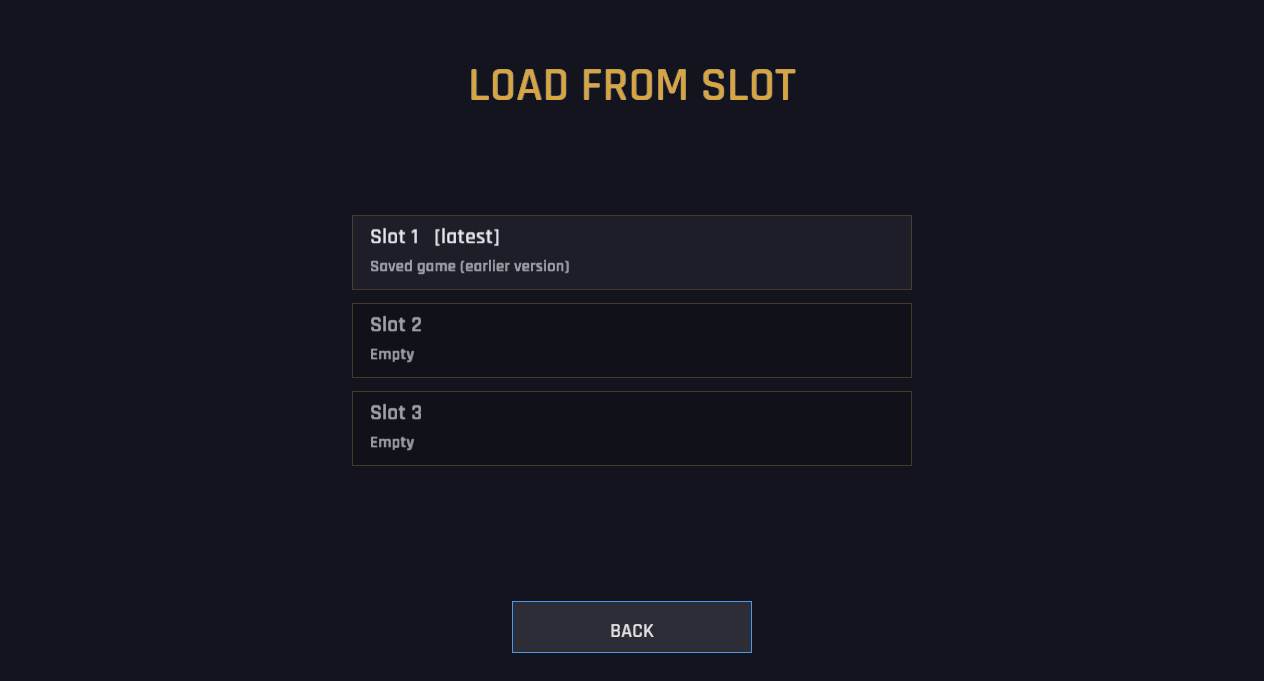
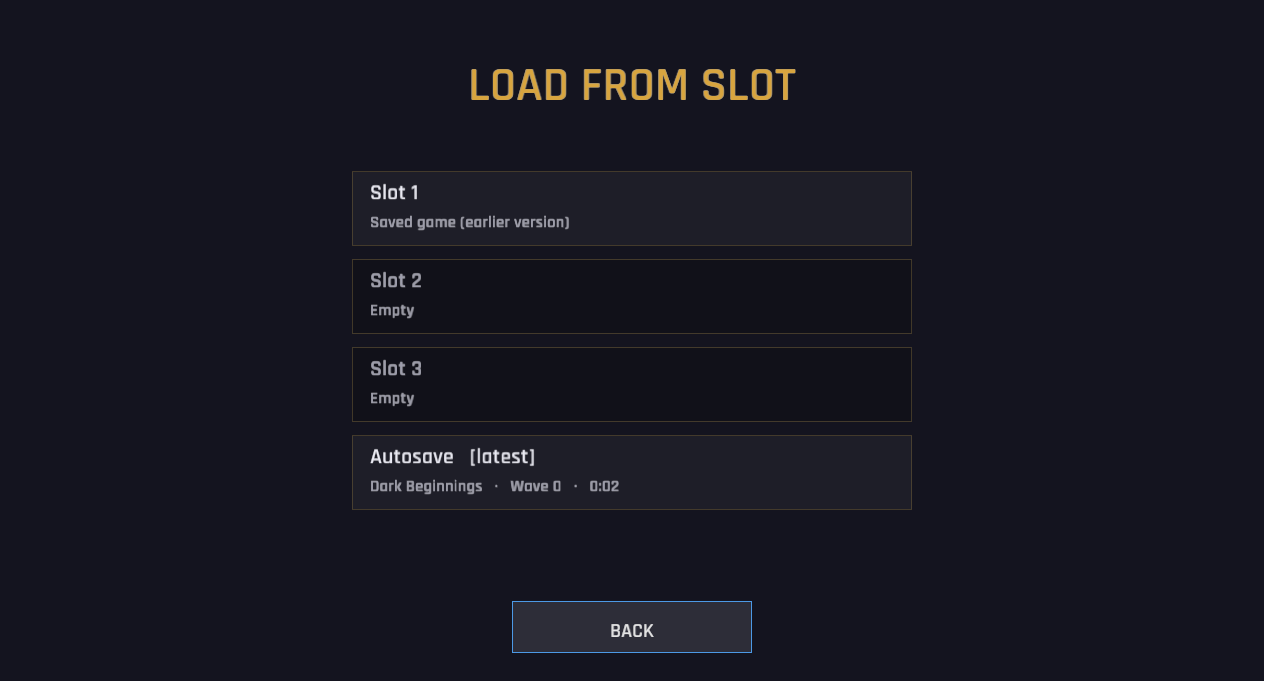
The game saves itself, into a slot the player cannot be given
Autosave runs off the toolkit's AutoSaveManager rather than a hand-rolled
timer -- the third thing persistence:: already carried that this project
had not adopted, after the slot API and its migration hooks.

The slot became an enum to make this safe. An autosave is a kind of slot,
not a fourth numbered one: writing it into the player's chosen slot would
make it worse than no autosave at all. SaveSlot::all() is what a player
picks into and excludes it; all_loadable() includes it and is what the
load list and "is there anything to load" ask. Getting those two backwards
would either hide autosaves or let a manual save land in the slot the
timer is about to take, so both directions have a test.

The manager lives on Game rather than GameState, which is forced twice
over: the timer has no business inside a save file, and its update takes
a closure borrowing the very state it saves.

The gate came out into should_autosave() so it could be tested without
touching a disk. Paused, finished, or briefing-unread all stop the clock.
Pause is the one that matters -- a timer running behind the pause menu
would autosave the instant someone came back to the keyboard, which is
when they least expect their save to move.

The interval is authored (timing.autosave_interval, 180s), not a
constant, per the data-driven rule.

Verified end to end rather than by unit test alone: with the interval
temporarily at 1s, a simulation capture wrote
[…]

Changed region(s): [[0.2777, 0.2467, 0.4937, 0.7401]]

diff --git a/src/state/save_system.rs b/src/state/save_system.rs
@@ -28,42 +28,65 @@ const SAVE_FORMAT_VERSION: &str = "0.1.0";
 /// How many numbered slots the player gets.
 pub const SLOT_COUNT: u8 = 3;
 
-/// Which numbered slot a session reads and writes.
+/// Which slot a session reads and writes.
 ///
-/// A newtype rather than a `u8` so an out-of-range slot cannot be constructed
-/// and then quietly resolve to a filename nothing else knows about.
+/// An enum rather than a bare number because the autosave is a *kind* of slot,
+/// not a fourth numbered one: the whole point of it is that it cannot land on
+/// the save a player chose. Numbered slots stay validated at construction, so an
+/// out-of-range slot cannot resolve to a filename nothing else knows about.
 #[derive(Debug, Clone, Copy, PartialEq, Eq, PartialOrd, Ord, Serialize, Deserialize)]
-pub struct SaveSlot(u8);
+pub enum SaveSlot {
+    Numbered(u8),
+    /// Written by the timer, never by the player. Loadable like any other.
+    Auto,
+}
 
 impl Default for SaveSlot {
     fn default() -> Self {
-        Self(1)
+        Self::Numbered(1)
     }
 }
 
 impl SaveSlot {
     /// `None` outside `1..=SLOT_COUNT`.
     pub fn new(number: u8) -> Option<Self> {
-        (1..=SLOT_COUNT).contains(&number).then_some(Self(number))
+        (1..=SLOT_COUNT)
+            .contains(&number)
+            .then_some(Self::Numbered(number))
     }
 
-    pub fn number(self) -> u8 {
-        self.0
-    }
-
+    /// The numbered slots, in order. Excludes the autosave: this is the list a
+    /// player picks *into*, and the autosave is not a choice they make.
     pub fn all() -> impl Iterator<Item = Self> {
-        (1..=SLOT_COUNT).map(Self)
+        (1..=SLOT_COUNT).map(Self::Numbered)
+    }
+
+    /// Every slot that can hold a save, autosave included — what a *load* list
+    /// offers.
+    pub fn all_loadable() -> impl Iterator<Item = Self> {
+        Self::all().chain(std::iter::once(Self::Auto))
+    }
+
+    pub fn is_auto(self) -> bool {
+        matches!(self, Self::Auto)
     }
 
     /// The name the persistence layer files this slot under.
     fn key(self) -> String {
-        format!("slot_{}", self.0)
+        match self {
+            Self::Numbered(n) => format!("slot_{n}"),
+            // Matches the name the toolkit's own slot enumeration expects.
+            Self::Auto => "autosave".to_string(),
+        }
     }
 }
 
 impl std::fmt::Display for SaveSlot {
     fn fmt(&self, f: &mut std::fmt::Formatter<'_>) -> std::fmt::Result {
-        write!(f, "Slot {}", self.0)
+        match self {
+            Self::Numbered(n) => write!(f, "Slot {n}"),
+            Self::Auto => write!(f, "Autosave"),
+        }
     }
 }
 
@@ -150,6 +173,17 @@ pub fn load_game(slot: SaveSlot) -> Result<GameState, String> {
     Ok(state)
 }
 
+/// Whether the autosave timer should be running at all this frame.
+///
+/// A paused game, a finished one, and an unread mission briefing all mean the
+/// player is not making progress worth preserving. The pause case is the one
+/// that matters most: a timer that ran while the pause menu sat open would
+/// autosave the instant someone came back to the keyboard, which is exactly
+/// when they are least expecting their save to change.
+pub fn should_autosave(state: &GameState) -> bool {
+    !state.paused && !state.game_over && state.tutorial.intro_dismissed
+}
+
 /// Is there anything in this slot?
 ///
 /// Deliberately existence-only: the menus call this every frame while they are
@@ -159,9 +193,10 @@ pub fn save_exists(slot: SaveSlot) -> bool {
     slot_exists(GAME_NAME, &slot.key()) || legacy_exists(slot)
 }
 
-/// Any slot at all — what a "LOAD GAME" button needs to know.
+/// Any slot at all — what a "LOAD GAME" button needs to know. Counts the
+/// autosave: it is the slot most likely to be the only one a new player has.
 pub fn any_save_exists() -> bool {
-    SaveSlot::all().any(save_exists)
+    SaveSlot::all_loadable().any(save_exists)
 }
 
 /// Describe a slot for a picker. `None` if empty, or if it is a legacy save
@@ -177,7 +212,9 @@ pub fn peek_slot(slot: SaveSlot) -> Option<SaveMeta> {
 ///
 /// Parses every occupied slot, so call it from a click and not from a draw.
 pub fn most_recent_slot() -> Option<SaveSlot> {
-    let occupied: Vec<SaveSlot> = SaveSlot::all().filter(|slot| save_exists(*slot)).collect();
+    let occupied: Vec<SaveSlot> = SaveSlot::all_loadable()
+        .filter(|slot| save_exists(*slot))
+        .collect();
     occupied
         .iter()
         .filter_map(|slot| peek_slot(*slot).map(|meta| (*slot, meta.saved_at)))
@@ -284,9 +321,34 @@ mod tests {
         assert!(SaveSlot::new(0).is_none());
         assert!(SaveSlot::new(SLOT_COUNT + 1).is_none());
         assert_eq!(SaveSlot::all().count(), SLOT_COUNT as usize);
-        for slot in SaveSlot::all() {
-            assert!(SaveSlot::new(slot.number()).is_some());
+        for number in 1..=SLOT_COUNT {
+            assert_eq!(SaveSlot::new(number), Some(SaveSlot::Numbered(number)));
         }
+    }
+
+    /// The autosave is a slot the player never picks into, so it is absent from
+    /// `all()` and present in `all_loadable()`. Getting this backwards would
+    /// either hide autosaves from the load list or let a manual save land in the
+    /// slot the timer is about to overwrite.
+    #[test]
+    fn the_autosave_can_be_loaded_but_not_chosen() {
+        assert!(!SaveSlot::all().any(|slot| slot.is_auto()));
+        assert!(SaveSlot::all_loadable().any(|slot| slot.is_auto()));
+        assert_eq!(
+            SaveSlot::all_loadable().count(),
+            SLOT_COUNT as usize + 1,
+            "loadable is the numbered slots plus the autosave"
+        );
+    }
+
+    /// The autosave must not collide with any numbered slot's file.
+    #[test]
+    fn the_autosave_has_its_own_file() {
+        let numbered: Vec<String> = SaveSlot::all().map(|slot| slot.key()).collect();
+        assert!(
+            !numbered.contains(&SaveSlot::Auto.key()),
+            "autosave shares a file with a numbered slot: {numbered:?}"
+        );
     }
 
     /// Each slot must file under its own name. The whole point of the change is
@@ -333,6 +395,27 @@ mod tests {
             "saved_at should be a real clock reading, got {}",
             peeked.meta.saved_at
         );
+    }
+
+    /// The autosave must not fire while the game is not running. Each clause is
+    /// checked on its own so a future edit cannot drop one silently.
+    #[test]
+    fn the_autosave_timer_only_runs_while_the_game_does() {
+        let game_data = GameData::load().expect("game data should load");
+        let mut state = GameState::new_for_scenario(&game_data, "the_iron_siege");
+        state.tutorial.intro_dismissed = true;
+        assert!(should_autosave(&state), "a running game should autosave");
+
+        state.paused = true;
+        assert!(!should_autosave(&state), "paused");
+        state.paused = false;
+
+        state.game_over = true;
+        assert!(!should_autosave(&state), "game over");
+        state.game_over = false;
+
+        state.tutorial.intro_dismissed = false;
+        assert!(!should_autosave(&state), "briefing unread");
     }
 
     /// A save the old build wrote has no `meta`. It must still load — that is

diff --git a/src/main.rs b/src/main.rs
@@ -73,6 +73,11 @@ pub struct Game {
     selected_spell: Option<String>,
     drag_selection: DragSelection,
     settings: state::settings::GameSettings,
+    /// Autosave cadence. Lives on `Game` rather than on `GameState` for two
+    /// reasons: the timer is a property of the session and has no business
+    /// inside a save file, and the manager's `update` takes a closure that
+    /// borrows the state it is saving — which it could not do from inside it.
+    autosave: macroquad_toolkit::persistence::AutoSaveManager,
 }
 
 impl Game {
@@ -91,6 +96,9 @@ impl Game {
             selected_spell: None,
             drag_selection: DragSelection::new(),
             settings: state::settings::GameSettings::load(),
+            // Re-created from config once game data loads; the interval is
+            // authored, not a constant.
+            autosave: macroquad_toolkit::persistence::AutoSaveManager::default(),
         }
     }
 
@@ -100,6 +108,9 @@ impl Game {
             match GameData::load_with_default_mod_order() {
                 Ok(data) => {
                     eprintln!("Successfully loaded game data!");
+                    self.autosave = macroquad_toolkit::persistence::AutoSaveManager::new(
+                        data.config.timing.autosave_interval,
+                    );
                     self.game_data = Some(data);
                 }
                 Err(e) => {
@@ -154,6 +165,41 @@ impl Game {
                     &mut self.interaction_mode,
                     &mut self.selected_spell,
                 );
+            }
+
+            Self::tick_autosave(&mut self.autosave, state, dt);
+        }
+    }
+
+    /// Advance the autosave timer and write if it has come due.
+    ///
+    /// Gated on the game actually running: a paused game, a finished one, or an
+    /// unread mission briefing all mean the player is not making progress worth
+    /// preserving, and a timer that ran while the pause menu sat open would
+    /// autosave the moment they walked back to the keyboard.
+    ///
+    /// Writes to [`SaveSlot::Auto`], never to the player's slot — an autosave
+    /// that overwrote the save someone deliberately made would be worse than no
+    /// autosave at all.
+    fn tick_autosave(
+        autosave: &mut macroquad_toolkit::persistence::AutoSaveManager,
+        state: &mut GameState,
+        dt: f32,
+    ) {
+        use crate::state::save_system::{save_game, should_autosave, SaveSlot};
+
+        let running = should_autosave(state);
+        let result = autosave.update(dt, running, || save_game(state, SaveSlot::Auto));
+
+        match result {
+            Ok(true) => state.notifications.info("Autosaved."),
+            Ok(false) => {}
+            Err(e) => {
+                // Same rule as every other swallowed failure in this project:
+                // the player is told, once, rather than it going to stderr.
+                state
+                    .player
+                    .warn_once("autosave_failed", format!("Autosave failed: {e}"));
             }
         }
     }

diff --git a/src/state/interaction.rs b/src/state/interaction.rs
@@ -74,7 +74,15 @@ impl SlotBrowser {
         use crate::state::save_system::{most_recent_slot, peek_slot, save_exists, SaveSlot};
 
         let latest = most_recent_slot();
-        let entries = SaveSlot::all()
+        // Loading offers the autosave; saving does not list it, because the
+        // next autosave would take it back.
+        let slots: Vec<SaveSlot> = match purpose {
+            SlotBrowserPurpose::Load => SaveSlot::all_loadable().collect(),
+            SlotBrowserPurpose::Save => SaveSlot::all().collect(),
+        };
+
+        let entries = slots
+            .into_iter()
             .map(|slot| SlotBrowserEntry {
                 slot,
                 meta: peek_slot(slot),
@@ -88,6 +96,12 @@ impl SlotBrowser {
 
     /// Whether clicking this row should do anything.
     pub fn is_selectable(&self, entry: &SlotBrowserEntry) -> bool {
+        // The autosave is never a save target even if a row for it is somehow on
+        // screen — stated here rather than left to `open` not listing it, so the
+        // rule survives someone changing what `open` lists.
+        if entry.slot.is_auto() && !matches!(self.purpose, SlotBrowserPurpose::Load) {
+            return false;
+        }
         entry.occupied || self.purpose.allows_empty_slot()
     }
 }

diff --git a/src/data/game_config.rs b/src/data/game_config.rs
@@ -63,6 +63,8 @@ pub struct TimingConfig {
     pub initial_creature_spawn_delay: f32,
     pub creature_spawn_min_interval: f32,
     pub creature_spawn_max_interval: f32,
+    /// Seconds of unpaused play between autosaves.
+    pub autosave_interval: f32,
 }
 
 #[derive(Debug, Clone, Serialize, Deserialize, Default)]

diff --git a/TODO.md b/TODO.md
@@ -2,59 +2,19 @@
 
 ## In scope
 
-Everything below this section is a backlog. **These three items are the committed
+Everything below this section is a backlog. **These items are the committed
 work**, and the target that binds them is one player finishing one mission
 start-to-finish without a developer sitting next to them. Each is scoped to the
 smallest version that clears that bar — not to the full item the backlog
 describes.
 
-### 1. Save slots
+**Save slots are done** — `SaveSlot` (three numbered plus an autosave) owns slot
+identity in `state/save_system.rs`, saves go to `{app_data}/dungeon_manager/`
+through the toolkit's slot API rather than to a relative path, one browser serves
+both save and load, and the autosave writes every 180s of unpaused play to a slot
+the player cannot be given. Captured at `docs/verification/ui_loadgame.png`.
 
-**The slot has one owner now.** `SaveSlot` is a newtype in `state/save_system.rs`,
-the session's choice lives on `GameState::active_slot`, and the eleven `"slot_1"`
-literals are gone. `SaveMeta` (mission, wave, in-game time, wall-clock stamp) is
-written beside the state and can be read *without* deserializing a dungeon, which
-is what a picker needs.
-
-**A worse bug was underneath it.** The native path wrote `save_slot_1.json` at a
-**relative** path — into whatever directory the process started in. Launched from
-a shortcut, from Explorer, or from a store client, the save went somewhere else or
-the directory was not writable at all. Saves now go through
-`macroquad_toolkit::persistence::slots`, which this project had never adopted
-despite the toolkit carrying it: `{app_data}/dungeon_manager/` on native, a
-game-qualified key in the browser. Old saves are read once from the old location
-and move forward on the next write.
-
-**The picker ships.** One browser serves both verbs — `SlotBrowserPurpose::{Save,
-Load}` over the same rows and the same geometry, because a "save over slot 2" and
-a "load slot 2" screen kept looking alike by hand is two screens that drift. It is
-a `GamePhase` from the main menu and an overlay on `GameState` in game, since
-leaving `Playing` to pick a slot would mean parking the running game somewhere.
-Rows are read **once on open**, never per frame. Captured at
-`docs/verification/ui_loadgame.png`.
-
-That capture also confirmed the relative-path bug was real and not theoretical:
-this machine had a 500KB `save_slot_1.json` from January sitting *in the repo
-directory*, and the browser found it and labelled it an earlier-version save.
-
-What remains:
-
-- **Autosave.** Reach for the toolkit's `persistence::AutoSaveManager` before
-  writing one; it is the same "already carried, never adopted" shape the slot API
-  turned out to be. Note that `SlotBrowser` is a snapshot — an autosave landing
-  while the browser is open will not appear until it is reopened, which is fine
-  for a modal but worth knowing before wiring an autosave indicator into it.
-- **Deleting a save** has no UI. `persistence::delete_slot` is already there, and
-  three slots with no way to clear one is a corner players do reach.
-
-Still out of scope: quicksave/quickload keys, and format versioning/migration —
-though the toolkit's `load_from_slot_with_migration` and `peek_slot_version` are
-sitting there for when that comes.
-
-Note that `TutorialState` is serialized into the save, so slot work and tutorial
-work touch the same format.
-
-### 2. Tutorial coverage
+### 1. Tutorial coverage
 
 `STEPS` in `engine/tutorial_system.rs` is six steps — dig, claim, Lair, Hatchery,
 Treasury, recruit — and stops there. A player who finishes it has never met
@@ -73,7 +33,7 @@ this project's data-driven rule. Roughly doubling its length is the wrong moment
 to keep it in Rust — move it to `assets/` first, then author. That also makes step
 text reachable by the localization item later.
 
-### 3. Wave 1
+### 2. Wave 1
 
 **Wave 1 now scales like every other wave.** It was the one wave with no dial on
 it — `HeroBase::new` seeded the countdown from `initial_delay` (600s) and nothing
@@ -174,7 +134,8 @@ competent player has standing by then. Notes for taking that measurement:
 ## UI & UX
 
 - Settings menu breadth: resolution and window modes, volume sliders, keybind remapping (keys are hardcoded in `engine/input.rs`), camera/scroll options, autosave toggle.
-- Save system, beyond the slots in scope above: quicksave/quickload, and save format versioning/migration.
+- Save system, beyond the shipped slots: quicksave/quickload, save format versioning/migration, and a way to **delete** a save (`persistence::delete_slot` is already there, and three slots with no way to clear one is a corner players reach).
+- The autosave interval is authored (`timing.autosave_interval`, 180s) but there is no toggle. `AutoSaveManager::set_enabled` is ready for one — it belongs with the settings-menu item above, not with the save system.
 - Tutorial, beyond the coverage in scope above: spells, prison/torture, the temple, contextual hints and an intro.
 - Hotkey overlay / help screen.
 - Localization: no i18n layer, all strings hardcoded English — externalize strings before it gets expensive.
